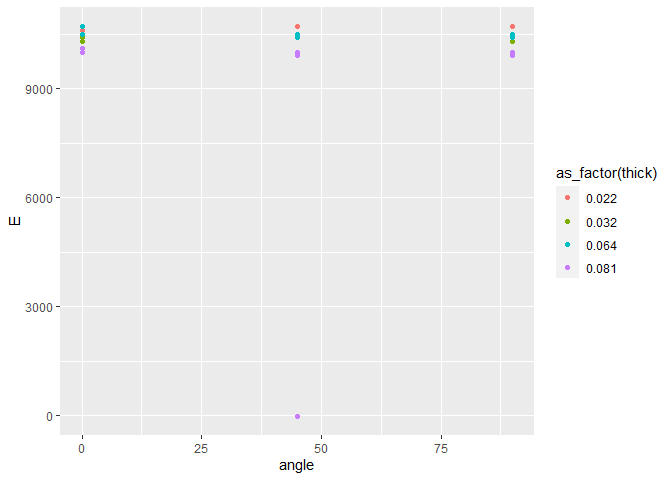
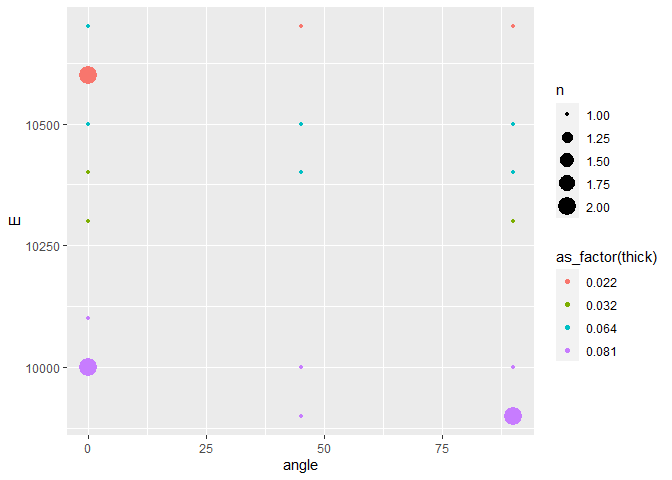
challenge 3 fixed errors

diff --git a/challenges/c03-stang-assignment.md b/challenges/c03-stang-assignment.md
@@ -124,7 +124,7 @@ df_stang <- read_csv(filename)
     ## ── Column specification ────────────────────────────────────────────────────────
     ## Delimiter: ","
     ## chr (1): alloy
-    ## dbl (7): thick, E_00, mu_00, E_45, mu_45, E_90, mu_90
+    ## dbl (7): thick, E_00, nu_00, E_45, nu_45, E_90, nu_90
     ## 
     ## ℹ Use `spec()` to retrieve the full column specification for this data.
     ## ℹ Specify the column types or set `show_col_types = FALSE` to quiet this message.
@@ -134,7 +134,7 @@ df_stang
 ```
 
     ## # A tibble: 9 × 8
-    ##   thick  E_00 mu_00  E_45  mu_45  E_90 mu_90 alloy  
+    ##   thick  E_00 nu_00  E_45  nu_45  E_90 nu_90 alloy  
     ##   <dbl> <dbl> <dbl> <dbl>  <dbl> <dbl> <dbl> <chr>  
     ## 1 0.022 10600 0.321 10700  0.329 10500 0.31  al_24st
     ## 2 0.022 10600 0.323 10500  0.331 10700 0.323 al_24st
@@ -161,17 +161,22 @@ df_stang_long <-
   pivot_longer(
     names_to = c(".value","angle"),
     names_sep = "_",
-    #values_drop_na = TRUE,
+    names_transform = list('angle' = as.integer),
     cols = c(-thick, -alloy)
-  ) %>%
-  mutate(angle = as.integer(angle))
+  ) %>% 
+  filter(E > 0)
+  
+
+
+#%>%
+  # mutate(angle = as.integer(angle))
 
 
 df_stang_long
 ```
 
-    ## # A tibble: 27 × 5
-    ##    thick alloy   angle     E    mu
+    ## # A tibble: 26 × 5
+    ##    thick alloy   angle     E    nu
     ##    <dbl> <chr>   <int> <dbl> <dbl>
     ##  1 0.022 al_24st     0 10600 0.321
     ##  2 0.022 al_24st    45 10700 0.329
@@ -183,7 +188,7 @@ df_stang_long
     ##  8 0.032 al_24st    45 10400 0.318
     ##  9 0.032 al_24st    90 10300 0.322
     ## 10 0.032 al_24st     0 10300 0.319
-    ## # … with 17 more rows
+    ## # … with 16 more rows
 
 Use the following tests to check your work.
 
@@ -193,7 +198,7 @@ Use the following tests to check your work.
 assertthat::assert_that(
               setequal(
                 df_stang_long %>% names,
-                c("thick", "alloy", "angle", "E", "mu")
+                c("thick", "alloy", "angle", "E", "nu")
               )
             )
 ```
@@ -202,7 +207,12 @@ assertthat::assert_that(
 
 ``` r
 ## Dimensions
-#assertthat::assert_that(all(dim(df_stang_long) == c(26, 5)))
+assertthat::assert_that(all(dim(df_stang_long) == c(26, 5)))
+```
+
+    ## [1] TRUE
+
+``` r
 ## Type
 assertthat::assert_that(
               (df_stang_long %>% pull(angle) %>% typeof()) == "integer"
@@ -216,10 +226,6 @@ print("Very good!")
 ```
 
     ## [1] "Very good!"
-
-``` r
-# !!!!!!!!!!! I commented out the size check on the data frame so that I could submit my df is not the right size!!!!!!!!!!!!!!!!!!!!!!
-```
 
 # EDA
 
@@ -236,13 +242,13 @@ print("Very good!")
 glimpse(df_stang_long)
 ```
 
-    ## Rows: 27
+    ## Rows: 26
     ## Columns: 5
     ## $ thick <dbl> 0.022, 0.022, 0.022, 0.022, 0.022, 0.022, 0.032, 0.032, 0.032, 0…
     ## $ alloy <chr> "al_24st", "al_24st", "al_24st", "al_24st", "al_24st", "al_24st"…
     ## $ angle <int> 0, 45, 90, 0, 45, 90, 0, 45, 90, 0, 45, 90, 0, 45, 90, 0, 45, 90…
     ## $ E     <dbl> 10600, 10700, 10500, 10600, 10500, 10700, 10400, 10400, 10300, 1…
-    ## $ mu    <dbl> 0.321, 0.329, 0.310, 0.323, 0.331, 0.323, 0.329, 0.318, 0.322, 0…
+    ## $ nu    <dbl> 0.321, 0.329, 0.310, 0.323, 0.331, 0.323, 0.329, 0.318, 0.322, 0…
 
 ``` r
 unique(df_stang_long$alloy)
@@ -260,38 +266,38 @@ unique(df_stang_long$thick)
 unique(df_stang_long$E)
 ```
 
-    ## [1] 10600 10700 10500 10400 10300 10000  9900 10100    -1
+    ## [1] 10600 10700 10500 10400 10300 10000  9900 10100
 
 ``` r
-unique(df_stang_long$mu)
+unique(df_stang_long$nu)
 ```
 
-    ##  [1]  0.321  0.329  0.310  0.323  0.331  0.318  0.322  0.319  0.326  0.330
-    ## [11]  0.327  0.328  0.320  0.315  0.314  0.312  0.316  0.311 -1.000
+    ##  [1] 0.321 0.329 0.310 0.323 0.331 0.318 0.322 0.319 0.326 0.330 0.327 0.328
+    ## [13] 0.320 0.315 0.314 0.312 0.316 0.311
 
 ``` r
 mean(df_stang_long$E)
 ```
 
-    ## [1] 9951.815
+    ## [1] 10334.62
 
 ``` r
 sd(df_stang_long$E)
 ```
 
-    ## [1] 2006.406
+    ## [1] 268.2421
 
 ``` r
-mean(df_stang_long$mu)
+mean(df_stang_long$nu)
 ```
 
-    ## [1] 0.2722963
+    ## [1] 0.3212308
 
 ``` r
-sd(df_stang_long$mu)
+sd(df_stang_long$nu)
 ```
 
-    ## [1] 0.2543569
+    ## [1] 0.006742745
 
 **Observations**:
 
@@ -306,7 +312,7 @@ sd(df_stang_long$mu)
 - What thicknesses were tested?
   - 0.022, 0.032, 0.064, and 0.081 inches thick
 - Are there more unique values of E or mu?
-  - there are 19 unique values of mu and only 9 unique values of E
+  - there are 18 unique values of mu and only 8 unique values of E
 - Does E vary more with thickness or angle?
 
 ## Visualize
@@ -319,7 +325,7 @@ sd(df_stang_long$mu)
 ## TASK: Investigate your question from q1 here
 df_stang_long %>%
   ggplot(aes(x = angle, y = E, color = as_factor(thick))) +
-  geom_point()
+  geom_count()
 ```
 
 ![](c03-stang-assignment_files/figure-gfm/q3-task-1.png)<!-- -->
@@ -327,7 +333,7 @@ df_stang_long %>%
 ``` r
 df_stang_long %>%
   ggplot(aes(x = thick, y = E, color = as_factor(angle))) +
-  geom_point()
+  geom_count()
 ```
 
 ![](c03-stang-assignment_files/figure-gfm/q3-task-2.png)<!-- -->
@@ -379,10 +385,18 @@ df_stang_long %>%
 
 **Observations**:
 
+- from the box plots of E broken out by angle I would conclude that it
+  is very unlikely that the angle effects the elasticity
+- from the box plots and distribution of E broken out by thickens the
+  elasticity of the 0.022”, 0.032”, and 0.064” samples does not appear
+  to be dependent on their thickness. The elasticity of the 0.082” thick
+  samples appear to be lower overall.
 - given the graphs I made I don’t think I can conclusively say that E
   varies more with angle or thickness. I am also not sure that I could
-  conclusively say that it varied with ether in any way.
-- it is also possible that the outlire is making it harder to see.
+  conclusively say that it varied with ether in any way. To more
+  conclusively ansawr my question I would need to look more into the
+  strange behavior of the 0.082” thick samples and I would need to take
+  the covariance of the elasticity with angle and thickness.
 
 ### **q4** Consider the following statement:
 
@@ -399,7 +413,7 @@ Is this evidence *conclusive* one way or another? Why or why not?
 ## NOTE: No need to change; run this chunk
 df_stang_long %>%
 
-  ggplot(aes(mu, E, color = as_factor(thick))) +
+  ggplot(aes(nu, E, color = as_factor(thick))) +
   geom_point(size = 3) +
   theme_minimal()
 ```
@@ -409,14 +423,13 @@ df_stang_long %>%
 **Observations**:
 
 - Does this graph support or contradict the claim above?
-  - The evidence is not conclusive. The 0.081 in thick outlire makes it
-    very hard to read the rest of the data presented on the graph.
-  - There appears to be some clumping by thickness in the blob of non
-    outlire values but it is not possible to tell if that is true or an
-    artifact of the graph at this scale.
-  - to move forward I would try to find out why the outlire exists and
-    if it can be discarded I would make a graph that can better show the
-    other values.
+  - The evidence is not conclusive. The 0.081” thick samples appear to
+    have overall lower E values than the other samples but when looking
+    at the graph this does not hold true for any other thickness. All of
+    the other thicknesses have overlapping values that would seem to
+    support the initial claim.
+  - The discrepancy between the 0.081” thick samples and the other
+    samples could be due to experimental error.
 
 # References
 
